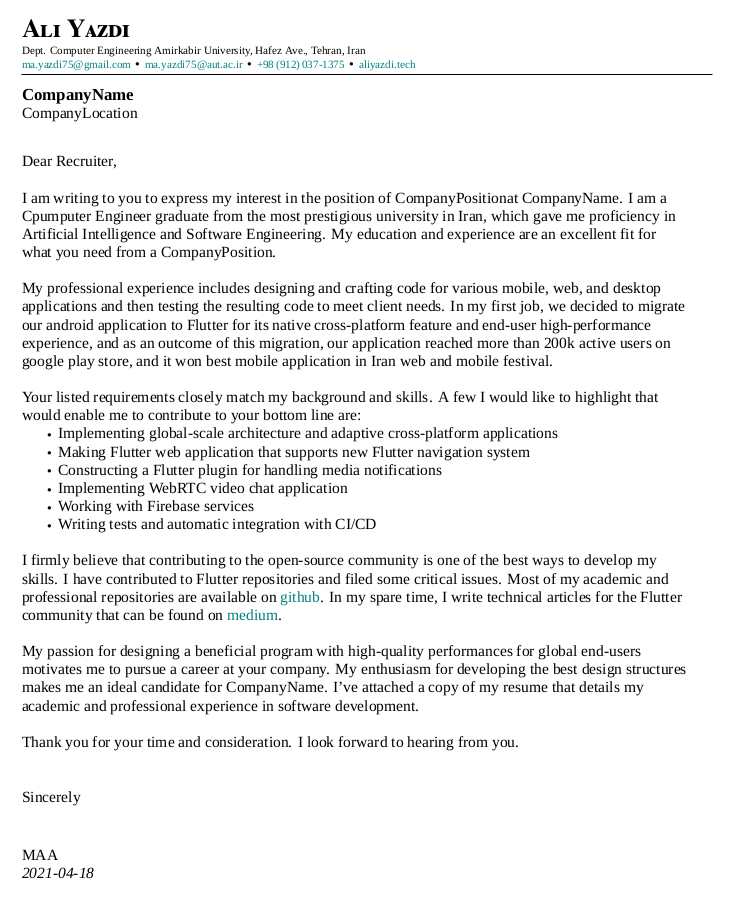
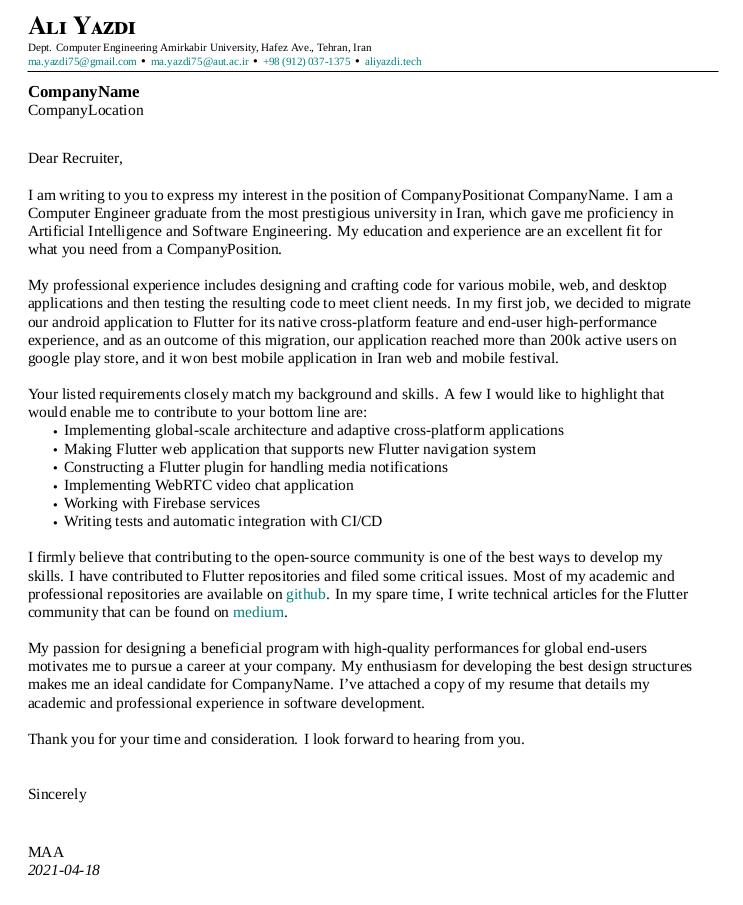
update

Changed region(s): [[0.0301, 0.0, 0.9631, 0.8372], [0.0301, 0.9302, 0.1204, 0.9922], [0.0301, 0.8682, 0.1204, 0.8992]]

diff --git a/AYazdiCoverLetter.tex b/AYazdiCoverLetter.tex
@@ -102,7 +102,7 @@ Dept. Computer Engineering Amirkabir University, Hafez Ave., Tehran, Iran
 
 \lettercontent{
 I am writing to you to express my interest in the position of \JobPosition at \CompanyName.
-I am a Cpumputer Engineer graduate from the most prestigious university in Iran,
+I am a Computer Engineer graduate from the most prestigious university in Iran,
 which gave me proficiency in Artificial Intelligence and Software Engineering.
 My education and experience are an excellent fit for what you need from a \JobPosition.
 }
